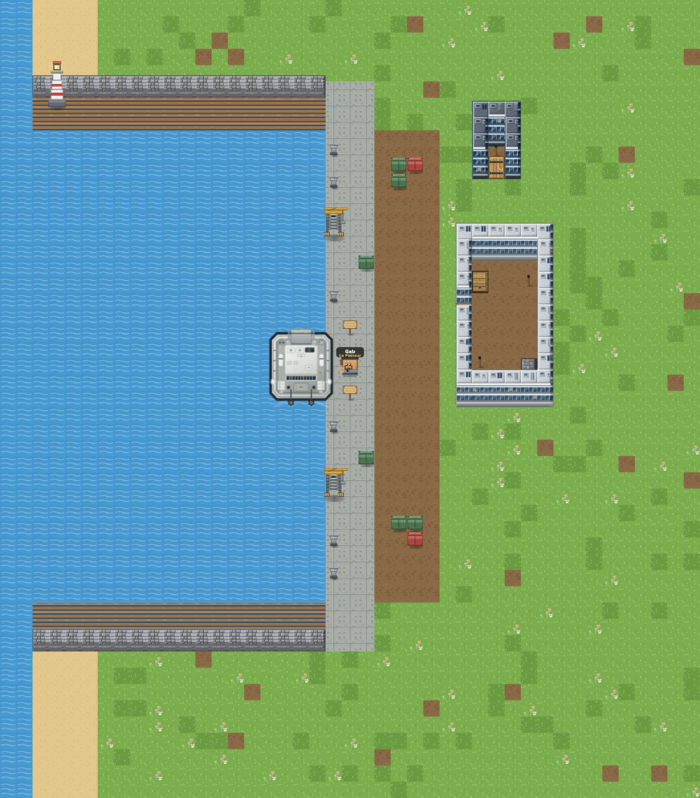
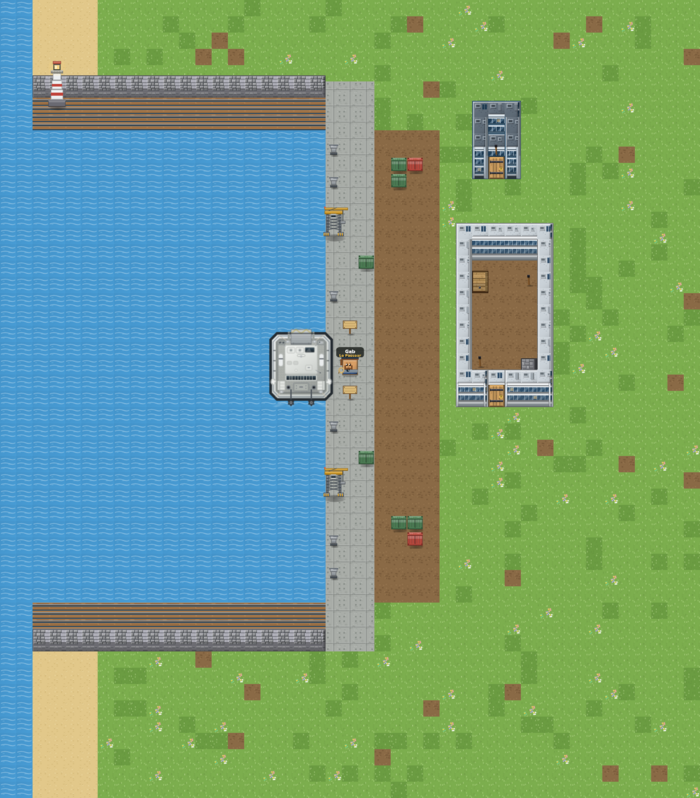
Portes au sud, et des textures qui savent quel côté on voit
Deux défauts de lecture, corrigés à la source.

- Les portes passent au SUD. Dans cette vue de dessus, c'est la seule
  face vraiment visible : l'est et l'ouest ne montrent qu'un biseau de
  6 px, si bien qu'une porte percée sur le côté passait inaperçue.
  js/city.js a désormais une seule façon de poser une porte, et elle
  la met au milieu du mur sud (capitainerie et tour de contrôle).
- Le mur continue au-dessus de la porte. Une porte dans un immeuble de
  deux étages laissait un trou de 30 px au-dessus d'elle : on voyait
  l'intérieur par-dessus l'ouverture. Le linteau reprend la façade du
  mur voisin (js/tileset.js, `drawDoorLintel`), la porte reste en bas,
  à hauteur d'homme. Seule la porte se retourne pour les doubles.
- Les textures savent quels bords sont libres : le bloc transmet
  l'information à sa texture, donc
    · l'acrotère du toit ne se dessine plus que sur le pourtour — avant,
      chaque tuile d'une grande toiture tirait son rebord et la dalle
      semblait quadrillée ;
    · la façade se termine par un pilastre d'angle là où le mur
      s'arrête, au lieu de couper une fenêtre net. Au milieu d'un long
      mur, rien n'est tiré et les bandes filent.
- L'aperçu (scripts/preview-port.mjs) dessine le linteau comme le jeu.
- Test : le parcours navigateur rend la rive d'arrivée, il a donc
  attrapé l'import manquant du linteau.

diff --git a/js/tileset.js b/js/tileset.js
@@ -1158,6 +1158,11 @@ function rockFaceTexture(ctx, rng) {
 //     de hasard, donc deux clients voient exactement la même ville.
 // ------------------------------------------------------------
 
+// Un bord est « libre » sauf si le raccord dit explicitement le
+// contraire (les tuiles d'inventaire, dessinées isolément, n'ont pas
+// de voisin : tous leurs bords sont libres).
+function free(v) { return v !== false; }
+
 // Mélange déterministe : mêmes coordonnées → mêmes détails.
 function hash2(a, b) {
   let h = Math.imul(a + 1013, 0x27d4eb2d) ^ Math.imul(b + 3571, 0x165667b1);
@@ -1201,12 +1206,25 @@ function roofTerrace(ctx, info, o) {
   }
 
   // Acrotère : arête claire au nord/ouest, ombre portée à l'intérieur.
-  ctx.fillStyle = withAlpha('#ffffff', 0.5);
-  ctx.fillRect(info.x, info.y, info.w, 2);
-  ctx.fillRect(info.x, info.y, 2, info.h);
-  ctx.fillStyle = 'rgba(0,0,0,0.22)';
-  ctx.fillRect(info.x + 2, info.y + info.h - 2, info.w - 2, 2);
-  ctx.fillRect(info.x + info.w - 2, info.y + 2, 2, info.h - 2);
+  // Uniquement sur les bords LIBRES : sans ça, chaque tuile d'une
+  // grande toiture tirait son propre rebord et la dalle semblait
+  // quadrillée.
+  if (free(info.northFree)) {
+    ctx.fillStyle = withAlpha('#ffffff', 0.5);
+    ctx.fillRect(info.x, info.y, info.w, 2);
+  }
+  if (free(info.leftFree)) {
+    ctx.fillStyle = withAlpha('#ffffff', 0.5);
+    ctx.fillRect(info.x, info.y, 2, info.h);
+  }
+  if (free(info.southFree)) {
+    ctx.fillStyle = 'rgba(0,0,0,0.22)';
+    ctx.fillRect(info.x + 2, info.y + info.h - 2, info.w - 2, 2);
+  }
+  if (free(info.rightFree)) {
+    ctx.fillStyle = 'rgba(0,0,0,0.22)';
+    ctx.fillRect(info.x + info.w - 2, info.y + 2, 2, info.h - 2);
+  }
 
   if (info.h < 16 || info.w < 18) return;
 
@@ -1332,6 +1350,23 @@ function drawElevation(ctx, info, o) {
     ctx.fillStyle = withAlpha('#ffffff', 0.16);
     ctx.fillRect(info.x, baseTop, info.w, 1);
   }
+
+  // Pilastres d'angle : là où le mur s'arrête (bord libre), la façade
+  // se termine par un chaînage vertical au lieu de couper une fenêtre.
+  // Au milieu d'un long mur, rien n'est tiré : les bandes filent.
+  const pilW = 3;
+  if (free(info.leftFree)) {
+    ctx.fillStyle = o.pilaster;
+    ctx.fillRect(info.x, yTop, pilW, yBot - yTop);
+    ctx.fillStyle = 'rgba(0,0,0,0.24)';
+    ctx.fillRect(info.x + pilW, yTop, 1, yBot - yTop);
+  }
+  if (free(info.rightFree)) {
+    ctx.fillStyle = o.pilaster;
+    ctx.fillRect(info.x + info.w - pilW, yTop, pilW, yBot - yTop);
+    ctx.fillStyle = 'rgba(0,0,0,0.24)';
+    ctx.fillRect(info.x + info.w - pilW - 1, yTop, 1, yBot - yTop);
+  }
 }
 
 // Mur moderne (immeuble de rapport) : béton clair, bandes vitrées bleues.
@@ -1351,6 +1386,7 @@ function modernWallTexture(ctx, face, info) {
     mullion: 'rgba(240,247,251,0.55)',
     lit: 'rgba(255,206,120,0.50)',
     plinth: '#a3aeb5',
+    pilaster: '#dbe2e7',
   });
   if (face === 'right') {
     ctx.fillStyle = 'rgba(0,0,0,0.20)';
@@ -1375,6 +1411,7 @@ function glassTowerTexture(ctx, face, info) {
     mullion: 'rgba(233,244,252,0.72)',
     lit: 'rgba(255,214,140,0.55)',
     plinth: '#39454f',
+    pilaster: '#b7c6d2',
   });
   if (face === 'right') {
     ctx.fillStyle = 'rgba(0,0,0,0.24)';
@@ -2548,6 +2585,10 @@ function drawBlockTileConnected(ctx, x, y, color, texture, faces, opts = {}) {
     ctx.clip();
     texture(ctx, face, {
       x: px, y: py, w: pw, h: ph, top, side, dark: sideDark, tx: blockTx, ty: blockTy,
+      // Bords réellement visibles : une toiture de six tuiles ne doit
+      // pas tirer le rebord de son acrotère sur chaque tuile.
+      leftFree: !leftSame, rightFree: !rightSame,
+      northFree: !northSame, southFree: !southSame,
     });
     ctx.restore();
   };
@@ -2627,6 +2668,34 @@ function drawBlockTileConnected(ctx, x, y, color, texture, faces, opts = {}) {
   ctx.stroke();
 
   ctx.restore();
+}
+
+// De combien un bloc monte au-dessus de sa tuile (0 pour un cube).
+export function blockRise(id) {
+  const cfg = BLOCK_TEXTURES[id];
+  return (cfg && cfg.opts.rise) || 0;
+}
+
+// Le mur dont une porte fait partie : ses voisins est/ouest (une porte
+// est toujours flanquée de deux trumeaux), à défaut nord/sud.
+function doorWallNeighbour(world, tx, ty) {
+  let best = null;
+  let bestRise = 0;
+  for (const [nx, ny] of [[tx - 1, ty], [tx + 1, ty], [tx, ty + 1], [tx, ty - 1]]) {
+    const id = world.blockAt(nx, ny);
+    if (!id || !BLOCK_TEXTURES[id]) continue;
+    const rise = BLOCK_TEXTURES[id].opts.rise || 0;
+    if (rise > bestRise) { bestRise = rise; best = id; }
+  }
+  return best;
+}
+
+// Linteau : une porte percée dans un mur de deux étages laissait un
+// trou au-dessus d'elle (on voyait l'intérieur). Le mur continue
+// jusqu'en haut, la porte reste en bas, à hauteur d'homme.
+export function drawDoorLintel(ctx, tx, ty, world) {
+  const wallId = doorWallNeighbour(world, tx, ty);
+  if (wallId) drawBlockConnected(ctx, wallId, tx, ty, world, 1);
 }
 
 export function drawBlockConnected(ctx, id, tx, ty, world, layer = 1) {

diff --git a/js/city.js b/js/city.js
@@ -66,6 +66,15 @@ export function buildFortuneCity(world) {
   return FORTUNE_PORT;
 }
 
+// Une porte se place TOUJOURS sur le mur sud : dans cette vue de dessus,
+// c'est la seule face qu'on voit vraiment (l'est et l'ouest ne montrent
+// qu'un biseau de 6 px). Une porte percée sur le côté passait inaperçue.
+function placeDoor(world, r) {
+  const tx = Math.floor((r.x0 + r.x1) / 2);
+  world.blocks[world.idx(tx, r.y1)] = 'door';
+  return tx;
+}
+
 // Parcourt un rectangle inclusif en ignorant ce qui sort de la carte.
 function eachTile(world, r, fn) {
   for (let ty = r.y0; ty <= r.y1; ty++) {
@@ -136,8 +145,8 @@ function buildOffice(world) {
     if (edge) world.blocks[i] = 'wallModern';
   });
 
-  // Porte, au centre du mur ouest, face au bassin.
-  world.blocks[world.idx(s.x0, 61)] = 'door';
+  // Porte, au centre du mur SUD : c'est la face qu'on voit.
+  placeDoor(world, s);
 
   // Intérieur : un coffre, un four, deux torches.
   world.blocks[world.idx(29, 59)] = 'chest';
@@ -156,7 +165,7 @@ function buildTower(world) {
     world.floor[i] = 'dirt';
     if (edge) world.blocks[i] = 'wallGlass';
   });
-  world.blocks[world.idx(30, t.y1)] = 'door';
+  placeDoor(world, t);
   world.blocks[world.idx(30, 51)] = 'torch';
 }
 

diff --git a/js/game.js b/js/game.js
@@ -20,6 +20,7 @@ import {
   drawTreeObject, drawRockObject, drawIronOreObject, drawCaveObject,
   getObjectSprite, getObjectSpriteInfo, treeVariantAt, treeDropCount,
   treeBreakTime, TREE_VARIANTS, WATER_FRAMES, isExtrudedBlock, drawBlockConnected,
+  drawDoorLintel,
 } from './tileset.js';
 import { drawCharacter } from './character.js';
 import { drawNpc } from './npc/index.js';
@@ -3851,6 +3852,10 @@ export class Game {
           const rightIsDoor = this.world.blockAt(tx + 1, ty) === 'door';
           const isRightDoor = leftIsDoor && !rightIsDoor;
 
+          // Le mur continue au-dessus de l'ouverture (linteau) : sans ça,
+          // une porte dans un immeuble haut laissait un trou. Dessiné
+          // hors du miroir, lui seul doit se retourner.
+          drawDoorLintel(ctx, tx, ty, this.world);
           ctx.save();
           if (isRightDoor) {
             // Effet double porte : on retourne la porte droite horizontalement
